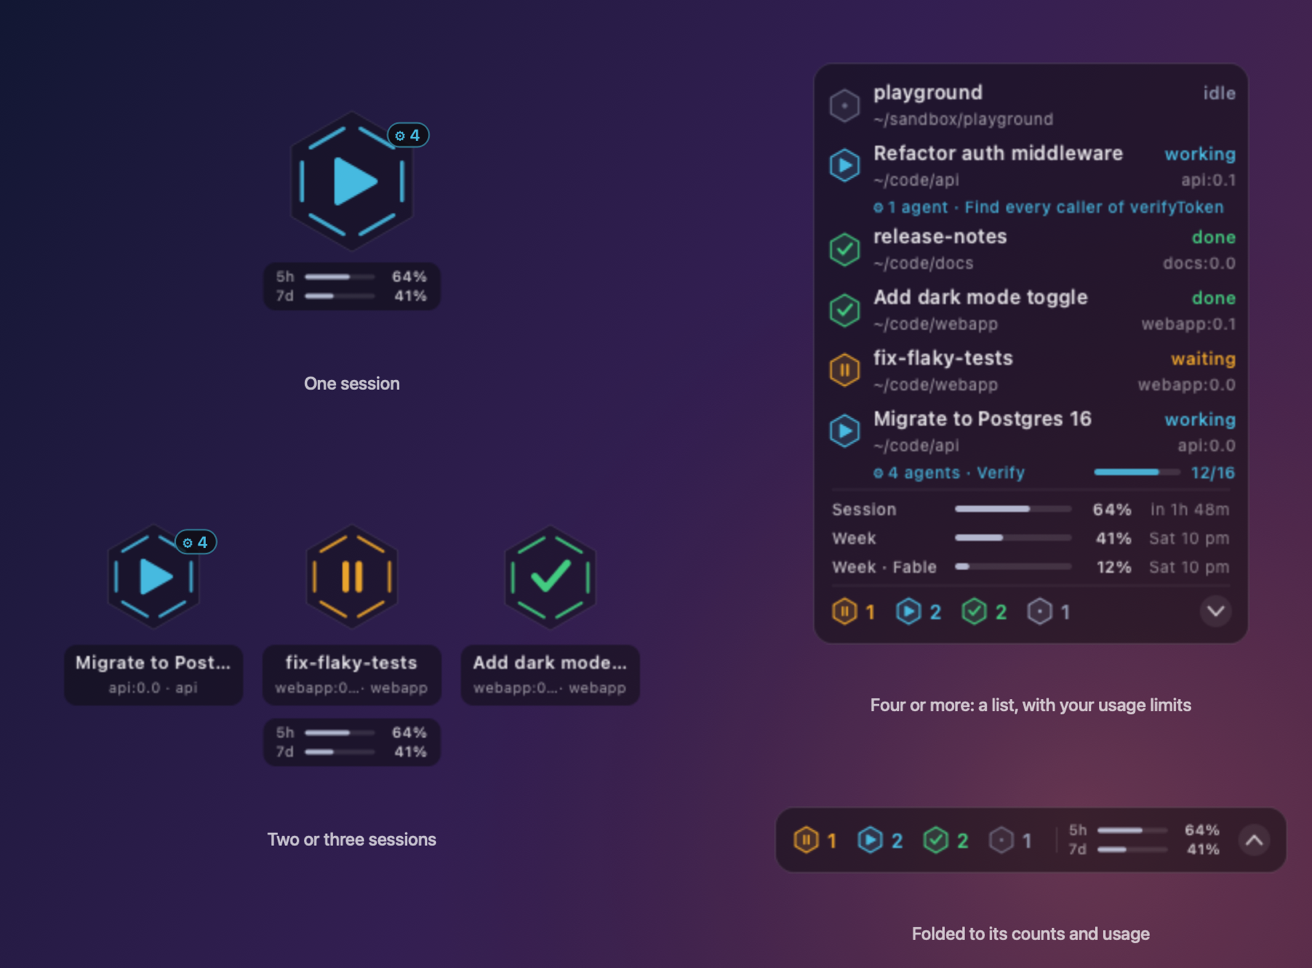
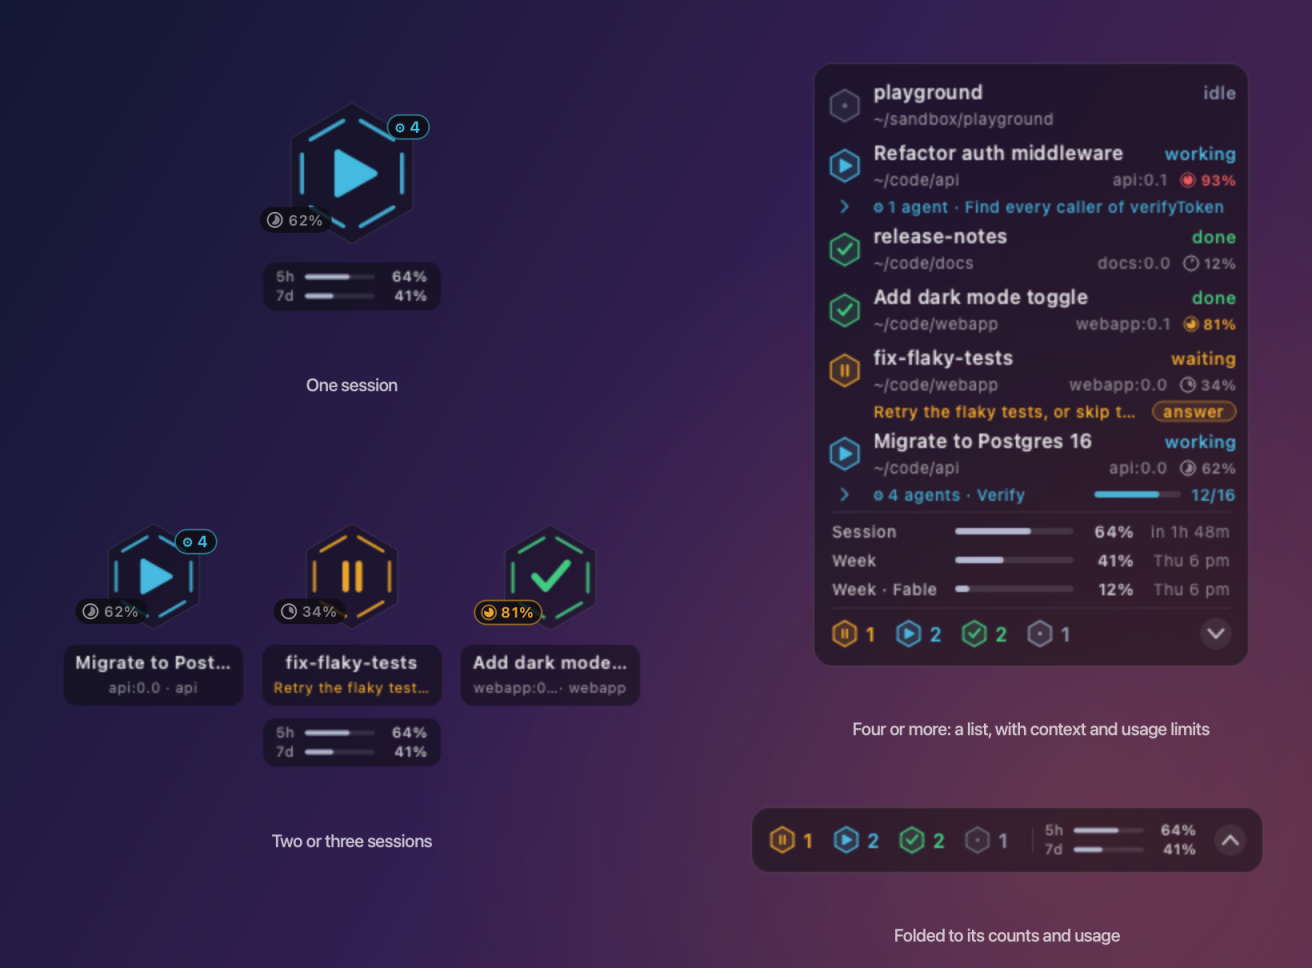
Give the context window its own place in the README, and a new overview
Under the states table, the README now says each session shows how full
its context window is, and a section of its own explains the gauge:
where it sits, its colours, the tokens on hover, `ctally list`, and
where the numbers come from.

docs/overview.png is rendered again from the demo data and laid out as
before, now with the context gauges, a question waiting to be answered,
and the agents' chevrons.

diff --git a/README.md b/README.md
@@ -11,7 +11,7 @@ ctally setup --tmux
 The name comes from the *tally light*, the lamp on a broadcast camera that shows it's live, and from tallying
 up your sessions.
 
-![CTally with one session, three sessions, a list of six with subagents at work and the usage limits, and the list folded](https://raw.githubusercontent.com/JinyuJinyuJinyu/ctally/main/docs/overview.png)
+![CTally with one session, three sessions, a list of six with each one's context window, a question waiting to be answered, subagents at work and the usage limits, and the list folded](https://raw.githubusercontent.com/JinyuJinyuJinyu/ctally/main/docs/overview.png)
 
 Every session gets a hexagon whose glyph and color say what it's doing:
 
@@ -22,6 +22,9 @@ Every session gets a hexagon whose glyph and color say what it's doing:
 | ⏸ amber | **limit** | stopped by your plan's usage limit; it turns to done when the limit resets |
 | ✓ green | **done** | your turn: the turn finished, and it stays here until your next prompt |
 | • slate | **idle** | nothing running |
+
+And a small gauge beside each one says **how full its context window is**: `62%`, turning amber at 75% and
+red at 90%, so you see a session nearing compaction before it gets there. [More below.](#context-window)
 
 ## Features
 
@@ -38,9 +41,9 @@ Every session gets a hexagon whose glyph and color say what it's doing:
   choices Claude Code shows. [More below.](#answering-from-ctally)
 - **Your plan's usage limits**: the session, the week, and each model's week, as bars with when each
   resets, kept fresh after every reply. [More below.](#usage-limits)
-- **How full each session's context is**: a small gauge on every row and badge fills as the conversation
-  grows, turning amber at 75% and red at 90%, before Claude Code compacts it. These are Claude Code's own
-  numbers, from the status line; hover for the tokens.
+- **How full each session's context window is**: a small gauge on every row and badge fills as the
+  conversation grows, turning amber at 75% and red at 90%, before Claude Code compacts it. These are Claude
+  Code's own numbers. [More below.](#context-window)
 - **Your week with Claude**: `ctally stats` adds up, day by day, how long Claude worked and how long it
   waited on you, your prompts, finished turns and limit hits. [More below.](#your-stats)
 - **Built for tmux**: every row shows its pane, a click switches to it, **prefix + J** jumps to the session
@@ -100,6 +103,26 @@ something`, `Tell Claude what to change`) bring the terminal forward for it. A f
 takes one answer at a time, then its review.
 
 Outside tmux, the menu shows what's asked and takes you to the terminal to answer it.
+
+## Context window
+
+Every session shows how much of its context window it has used: a little pie that fills clockwise, and the
+percentage beside it.
+
+- **In the list** it ends the row's directory line (`webapp:0.0  ◔ 34%`); **on a badge** it sits on the
+  lower-left shoulder.
+- **Colours**: quiet grey while there's room, amber from 75%, red from 90%. Claude Code compacts a
+  conversation when it's nearly full, so an amber or red session is one to wrap up, or to `/compact` yourself
+  at a good moment.
+- **Hover over the session** for the tokens: `Context 62% full: 124k of 200k tokens`. A 1M-token window
+  shows as `of 1M`, and fills that much more slowly.
+- **`ctally list`** has it as a column, between the agents and the project.
+
+The numbers are Claude Code's own: after every reply it hands the status line each session's
+`context_window` (its size, what's in it, the share used), and CTally's status line keeps the latest per
+session in `~/.claude/ctally.d/.status/`. A session shows its gauge from its next reply once that status
+line is in place: after upgrading from 0.3.2 or earlier, run `ctally setup` again (sessions already running
+pick it up without a restart). With `--no-statusline` there's no gauge.
 
 ## Usage limits
 
